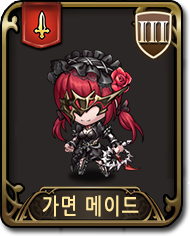
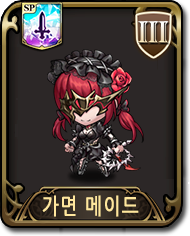
250817 시트 작업 (1)
궁병 페이지 제외하고 'currentitem' 이 '메인' 으로 들어가 있던 부분 수정, SP 가면메이드 이미지 교체, SP 가면메이드 myForm 번호 교체 테스트

Changed region(s): [[0.1053, 0.0, 0.3421, 0.2373]]

diff --git a/troop/보병.html b/troop/보병.html
@@ -22,10 +22,10 @@
 								<header id="header">
 									<h1><a href="../index.html" id="logo">랑그릿사 모바일</a></h1>
 									<nav id="nav">
-										<a href="../index.html" class="current-page-item">메인</a>
+										<a href="../index.html">메인</a>
 										<a href="../hero.html">영웅</a>
 										<a href="https://docs.google.com/spreadsheets/d/1RZFY2N3RU-vctduO_Tg2e4RVoZvJAAveiMgPnW6VTQg/edit?gid=1775361075#gid=1775361075" target="_blank">장비</a>
-										<a href="../troop.html">용병</a>
+										<a href="../troop.html" class="current-page-item">용병</a>
 										<a href="https://docs.google.com/spreadsheets/d/12fF-eW1Wp0pxOLZ4t3qwyDGakOUGQBths2mjo8hdS2E/edit?gid=0#gid=0" target="_blank">배너표</a>
 										<div class="dropdown">
 										  <button onclick="myFunction()" class="dropbtn">업데이트&비경&이벤트</button>
@@ -3228,10 +3228,10 @@
     <button type="button" class="btn cancel" onclick="closeForm18()">Close</button>
   </form>
 </div>
-<img class="filterDiv aaaa" onclick="openForm18_1()" src="../img/troop/보병/병종/18_1_SP가면메이드.webp" style="width: 100px; height: 124px;"/>
+<img class="filterDiv aaaa" onclick="openFormSP18_1()" src="../img/troop/보병/병종/18_1_SP가면메이드.webp" style="width: 100px; height: 124px;"/>
 <div class="chat-popup" id="myForm18_1">
 <form class="form-container">
-<button type="button" class="btn cancel" onclick="closeForm18_1()">Close</button>
+<button type="button" class="btn cancel" onclick="closeFormSP18_1()">Close</button>
 <h2>SP가면메이드</h2>
 							<table border="0" cellpadding="0" cellspacing="1">
 								<colgroup>

diff --git a/troop/기병.html b/troop/기병.html
@@ -23,10 +23,10 @@
 								<header id="header">
 									<h1><a href="../index.html" id="logo">랑그릿사 모바일</a></h1>
 									<nav id="nav">
-										<a href="../index.html" class="current-page-item">메인</a>
+										<a href="../index.html">메인</a>
 										<a href="../hero.html">영웅</a>
 										<a href="https://docs.google.com/spreadsheets/d/1RZFY2N3RU-vctduO_Tg2e4RVoZvJAAveiMgPnW6VTQg/edit?gid=1775361075#gid=1775361075" target="_blank">장비</a>
-										<a href="../troop.html">용병</a>
+										<a href="../troop.html" class="current-page-item">용병</a>
 										<a href="https://docs.google.com/spreadsheets/d/12fF-eW1Wp0pxOLZ4t3qwyDGakOUGQBths2mjo8hdS2E/edit?gid=0#gid=0" target="_blank">배너표</a>
 										<div class="dropdown">
 										  <button onclick="myFunction()" class="dropbtn">업데이트&비경&이벤트</button>

diff --git a/troop/비병.html b/troop/비병.html
@@ -23,10 +23,10 @@
 								<header id="header">
 									<h1><a href="../index.html" id="logo">랑그릿사 모바일</a></h1>
 									<nav id="nav">
-										<a href="../index.html" class="current-page-item">메인</a>
+										<a href="../index.html">메인</a>
 										<a href="../hero.html">영웅</a>
 										<a href="https://docs.google.com/spreadsheets/d/1RZFY2N3RU-vctduO_Tg2e4RVoZvJAAveiMgPnW6VTQg/edit?gid=1775361075#gid=1775361075" target="_blank">장비</a>
-										<a href="../troop.html">용병</a>
+										<a href="../troop.html" class="current-page-item">용병</a>
 										<a href="https://docs.google.com/spreadsheets/d/12fF-eW1Wp0pxOLZ4t3qwyDGakOUGQBths2mjo8hdS2E/edit?gid=0#gid=0" target="_blank">배너표</a>
 										<div class="dropdown">
 										  <button onclick="myFunction()" class="dropbtn">업데이트&비경&이벤트</button>

diff --git a/troop/승병.html b/troop/승병.html
@@ -23,10 +23,10 @@
 								<header id="header">
 									<h1><a href="../index.html" id="logo">랑그릿사 모바일</a></h1>
 									<nav id="nav">
-										<a href="../index.html" class="current-page-item">메인</a>
+										<a href="../index.html">메인</a>
 										<a href="../hero.html">영웅</a>
 										<a href="https://docs.google.com/spreadsheets/d/1RZFY2N3RU-vctduO_Tg2e4RVoZvJAAveiMgPnW6VTQg/edit?gid=1775361075#gid=1775361075" target="_blank">장비</a>
-										<a href="../troop.html">용병</a>
+										<a href="../troop.html" class="current-page-item">용병</a>
 										<a href="https://docs.google.com/spreadsheets/d/12fF-eW1Wp0pxOLZ4t3qwyDGakOUGQBths2mjo8hdS2E/edit?gid=0#gid=0" target="_blank">배너표</a>
 										<div class="dropdown">
 										  <button onclick="myFunction()" class="dropbtn">업데이트&비경&이벤트</button>

diff --git a/troop/창병.html b/troop/창병.html
@@ -23,10 +23,10 @@
 								<header id="header">
 									<h1><a href="../index.html" id="logo">랑그릿사 모바일</a></h1>
 									<nav id="nav">
-										<a href="../index.html" class="current-page-item">메인</a>
+										<a href="../index.html">메인</a>
 										<a href="../hero.html">영웅</a>
 										<a href="https://docs.google.com/spreadsheets/d/1RZFY2N3RU-vctduO_Tg2e4RVoZvJAAveiMgPnW6VTQg/edit?gid=1775361075#gid=1775361075" target="_blank">장비</a>
-										<a href="../troop.html">용병</a>
+										<a href="../troop.html" class="current-page-item">용병</a>
 										<a href="https://docs.google.com/spreadsheets/d/12fF-eW1Wp0pxOLZ4t3qwyDGakOUGQBths2mjo8hdS2E/edit?gid=0#gid=0" target="_blank">배너표</a>
 										<div class="dropdown">
 										  <button onclick="myFunction()" class="dropbtn">업데이트&비경&이벤트</button>
